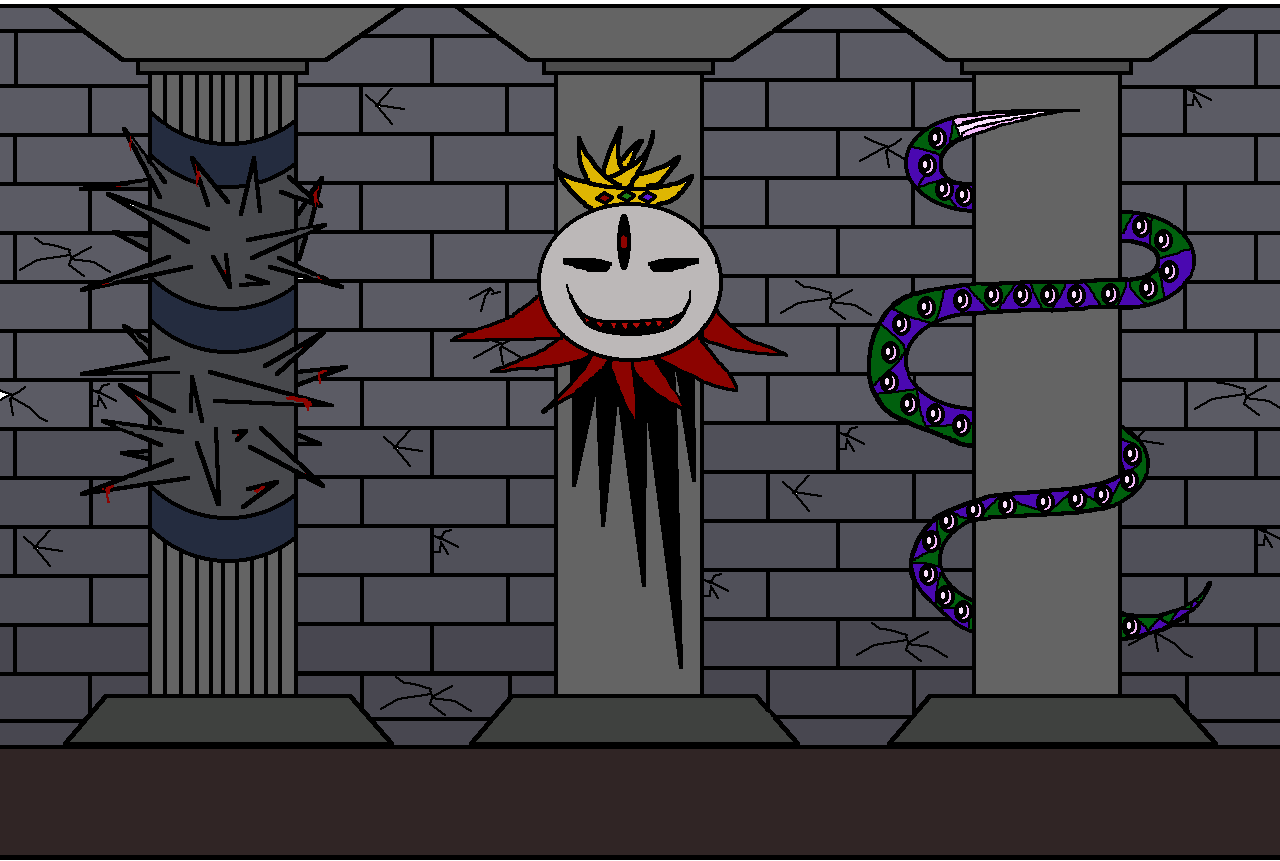
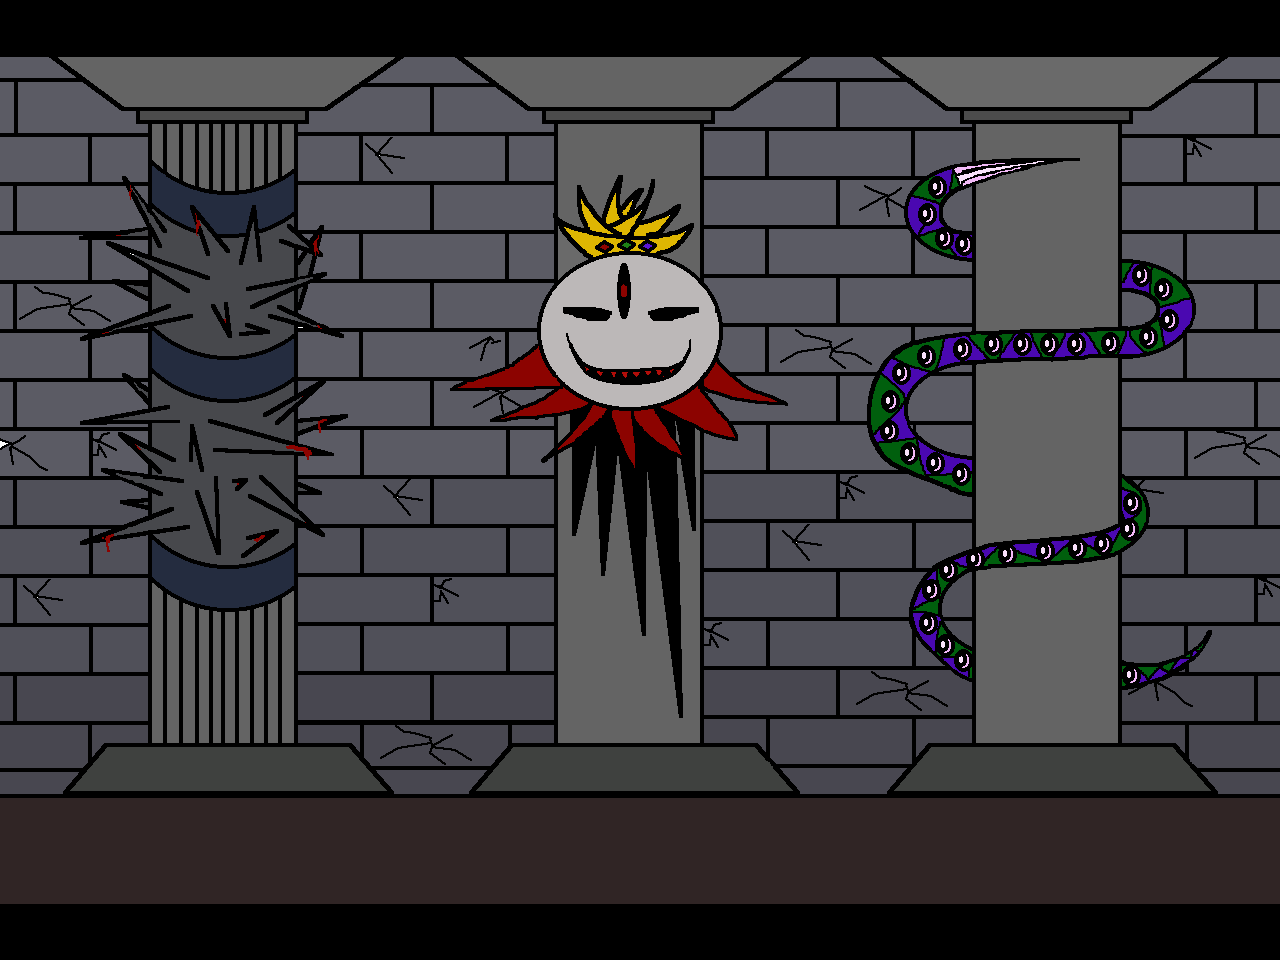
add play background and make it slide

diff --git a/src/scenes/Play.js b/src/scenes/Play.js
@@ -7,10 +7,14 @@ class Play extends Phaser.Scene {
         this.load.image("platform", './assets/platform.png');
         this.load.atlas("character",'./assets/endless_charac.png','./assets/endless_charac1.json');
         this.load.image('arrow', './assets/arrow.png');
+        this.load.image('background', './assets/playbg.png');
         
     }
 
     create() {
+        
+        this.background = this.add.tileSprite(0, 0, 1280, 960, 'background').setOrigin(0, 0);
+
         keyUP = this.input.keyboard.addKey(Phaser.Input.Keyboard.KeyCodes.UP);
 
         this.gameOver = false;
@@ -33,10 +37,9 @@ class Play extends Phaser.Scene {
             delayRepeat: 500,
             repeat: -1
         });
-
-        this.score = 0;
-        this.scoretext = this.add.text(16, 16, 'Score: ' + this.score, {fontSize: '32px'});
-
+        
+        
+        
         this.platformGroup = this.add.group({
             // once a platform is removed, it's added to the pool
             removeCallback: function(platform){
@@ -66,6 +69,9 @@ class Play extends Phaser.Scene {
         this.physics.add.collider(this.player, this.platformGroup);
 
         cursors = this.input.keyboard.createCursorKeys();
+
+        this.score = 0;
+        this.scoretext = this.add.text(16, 16, 'Score: ' + this.score, {fontSize: '32px'});
     }
  
     // the core of the script: platform are added from the pool or created on the fly
@@ -102,6 +108,9 @@ class Play extends Phaser.Scene {
     }
 
     update() {
+        this.background.tilePositionX += 4;
+        
+        
         if(this.gameOver) {
             this.scene.start("endScene", {score: this.score});
         }
